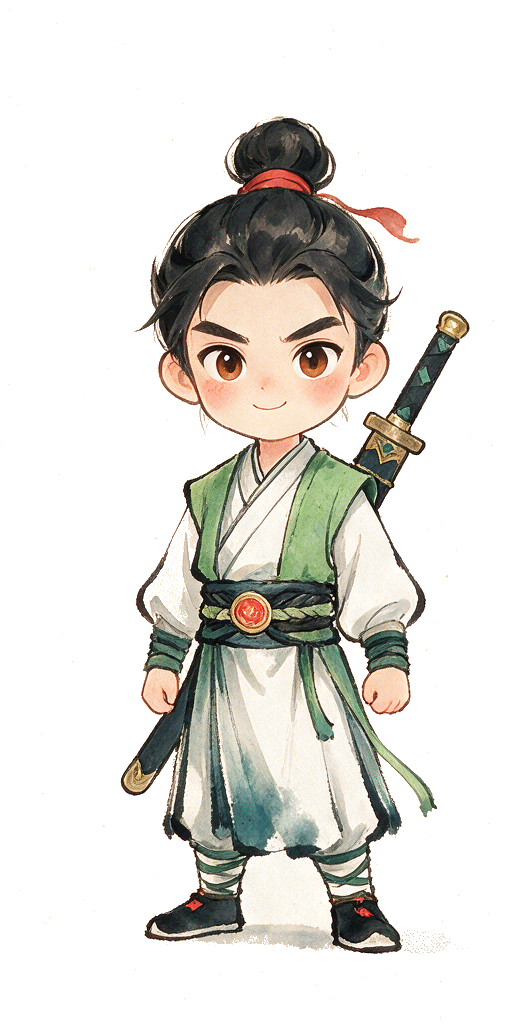
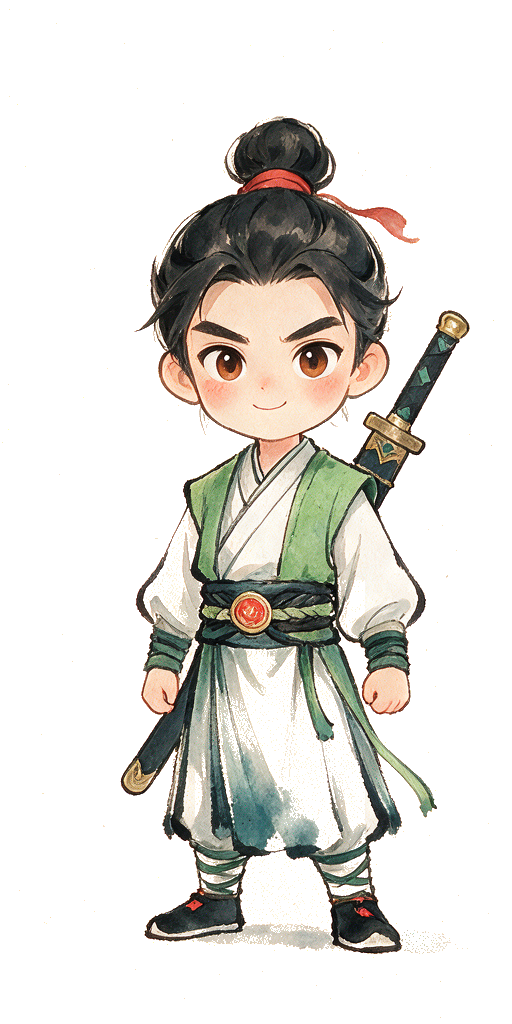
Q5-T06：hero_00 待机帧裙下白袍转透明——两腿间白袍段(y580-950)20,159px 转透明，腿间透明率35%与走姿帧一致，白袍区外0px变化 · 大表小表同步 · 待L环

diff --git a/tasks/threads/T06.md b/tasks/threads/T06.md
@@ -34,3 +34,4 @@
 | 08-23 15:00 | ZCode | ↩↪ 六轮b·腿间封闭白 | flood 连通判据够不到被腿臂完全包围的封闭残留 → 封闭暖白连通块算法（不接壤透明+≥250px+40%~97% 高度带限位避白衣胸口）hero/山贼 04~07 清除+小表同步 · 目验主体完好 · 59/59 |
 | 08-22 23:45 | CodeBuddy | 🔬 C 环·白块根因全链+修复 | 取证：①a2a7a58 干净帧自带 60,230px 贴边残留+8,679 白岛（d2 转正漏检，野狼每帧 4~6.8k 最重）②六轮b「封闭暖白连通块」误伤本体实锤（lang 帧 2.5~3.1 万本体像素被挖成洞）③白晕假说排除 → 修复：revert a2a7a58 + 新脚本 clean_white_residue.py（贴边+白岛双判据+低彩度门槛+本体保护域级联）→ 清除 199,785px 全为背景残留 / **本体误伤 0px** / 贴边归零 / 156 个暖灰过渡岛刻意保留 · 大表小表全量重采样 · 待 L 环 |
 | 08-22 23:55 | CodeBuddy | 🔬 C 环·战斗外白块二查+终修 | Leo 实测「主角静止帧/山贼移动帧（战斗外）仍见白块」→ 查江湖加载路径（heroFrameSrc/NPC sprite 均 *_transparent.png，sheet/非透明版运行时无引用）→ hero_00 剩 3 岛定位脚底右下 x402-423/y930-940 米灰(192,192,176) 亮度190+彩度16 卡在旧判据 mn>190 之下漏网 = 主角静止帧白块真身 → 视觉白点判据 mn→亮度(lum>190&彩度<30，肤色彩度60豁免) → 双门终验：残留 0px/0岛 + 清除 201,613px 高彩度误伤 0px · 大表小表重采样 · 山贼移动帧素材侧全零，若复验仍在→真机复现查渲染端 |
+| 08-23 00:02 | CodeBuddy | 🔬 Q5-T06·待机帧裙下白袍执行 | Leo 终判：hero_00 待机帧裙摆下有非衣服白块(其他帧无) → 剖面实锤：两腿间=白袍结构(y650-770白+绿裙y780-830+**白袍从绿裙下露出y840-920纯白**) → 方案C：两腿间白袍段(y580-950,x195-365)纯白(lum>215彩度<30)转透明 20,159px → 腿间透明率 35% 与走姿帧(21-28%)一致 · 白袍区外 0px 变化 · 大表小表同步 |
